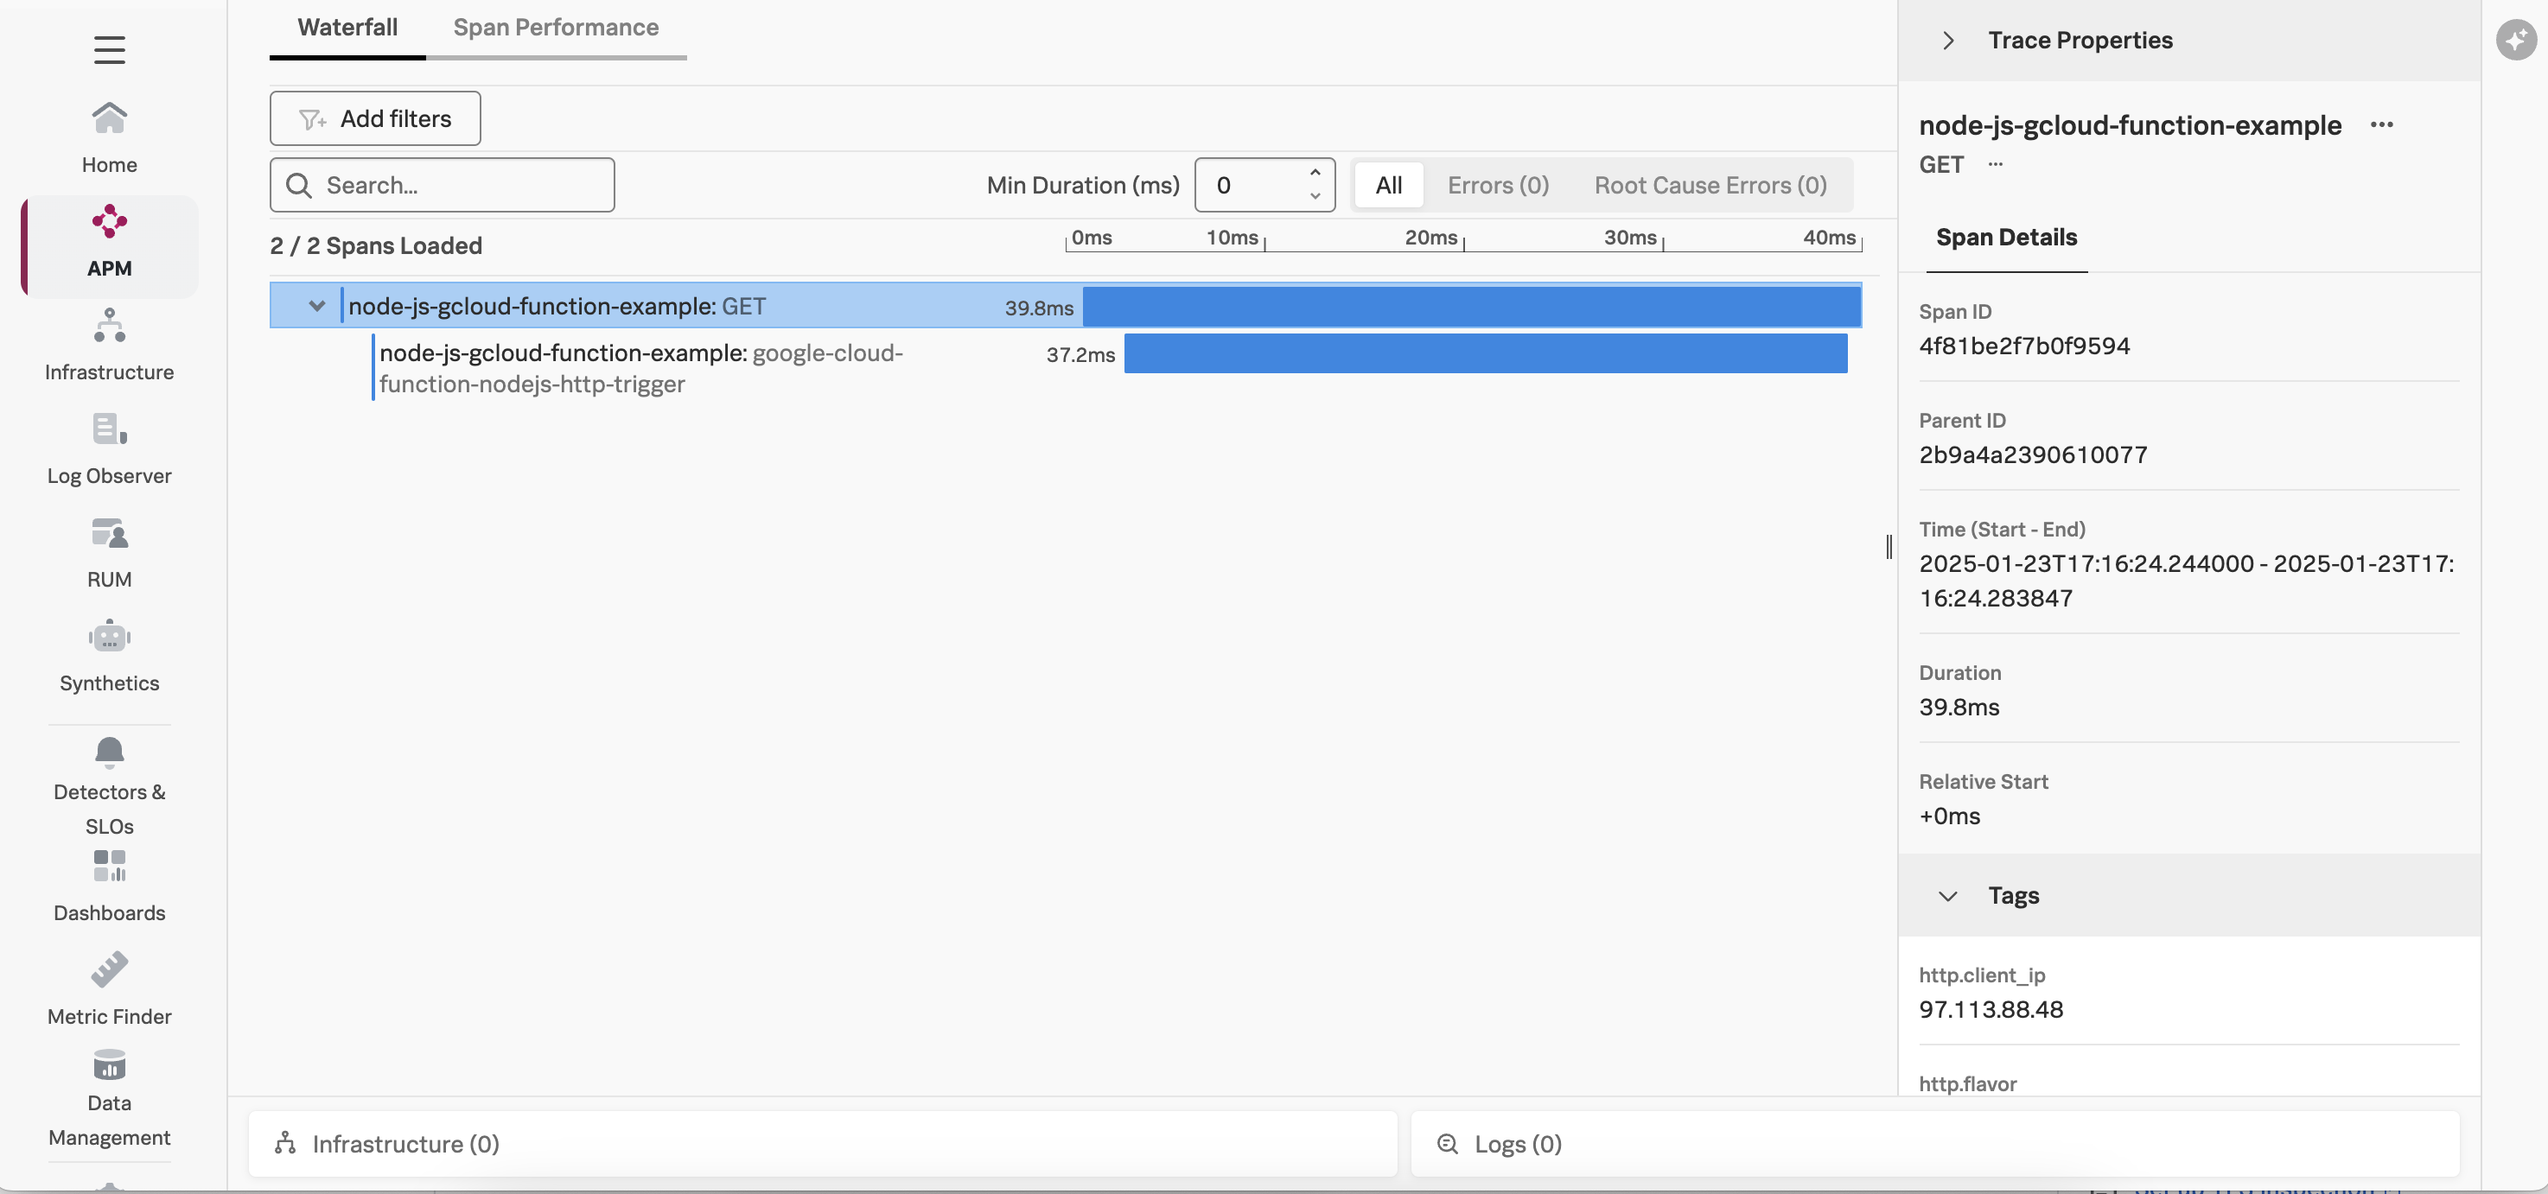
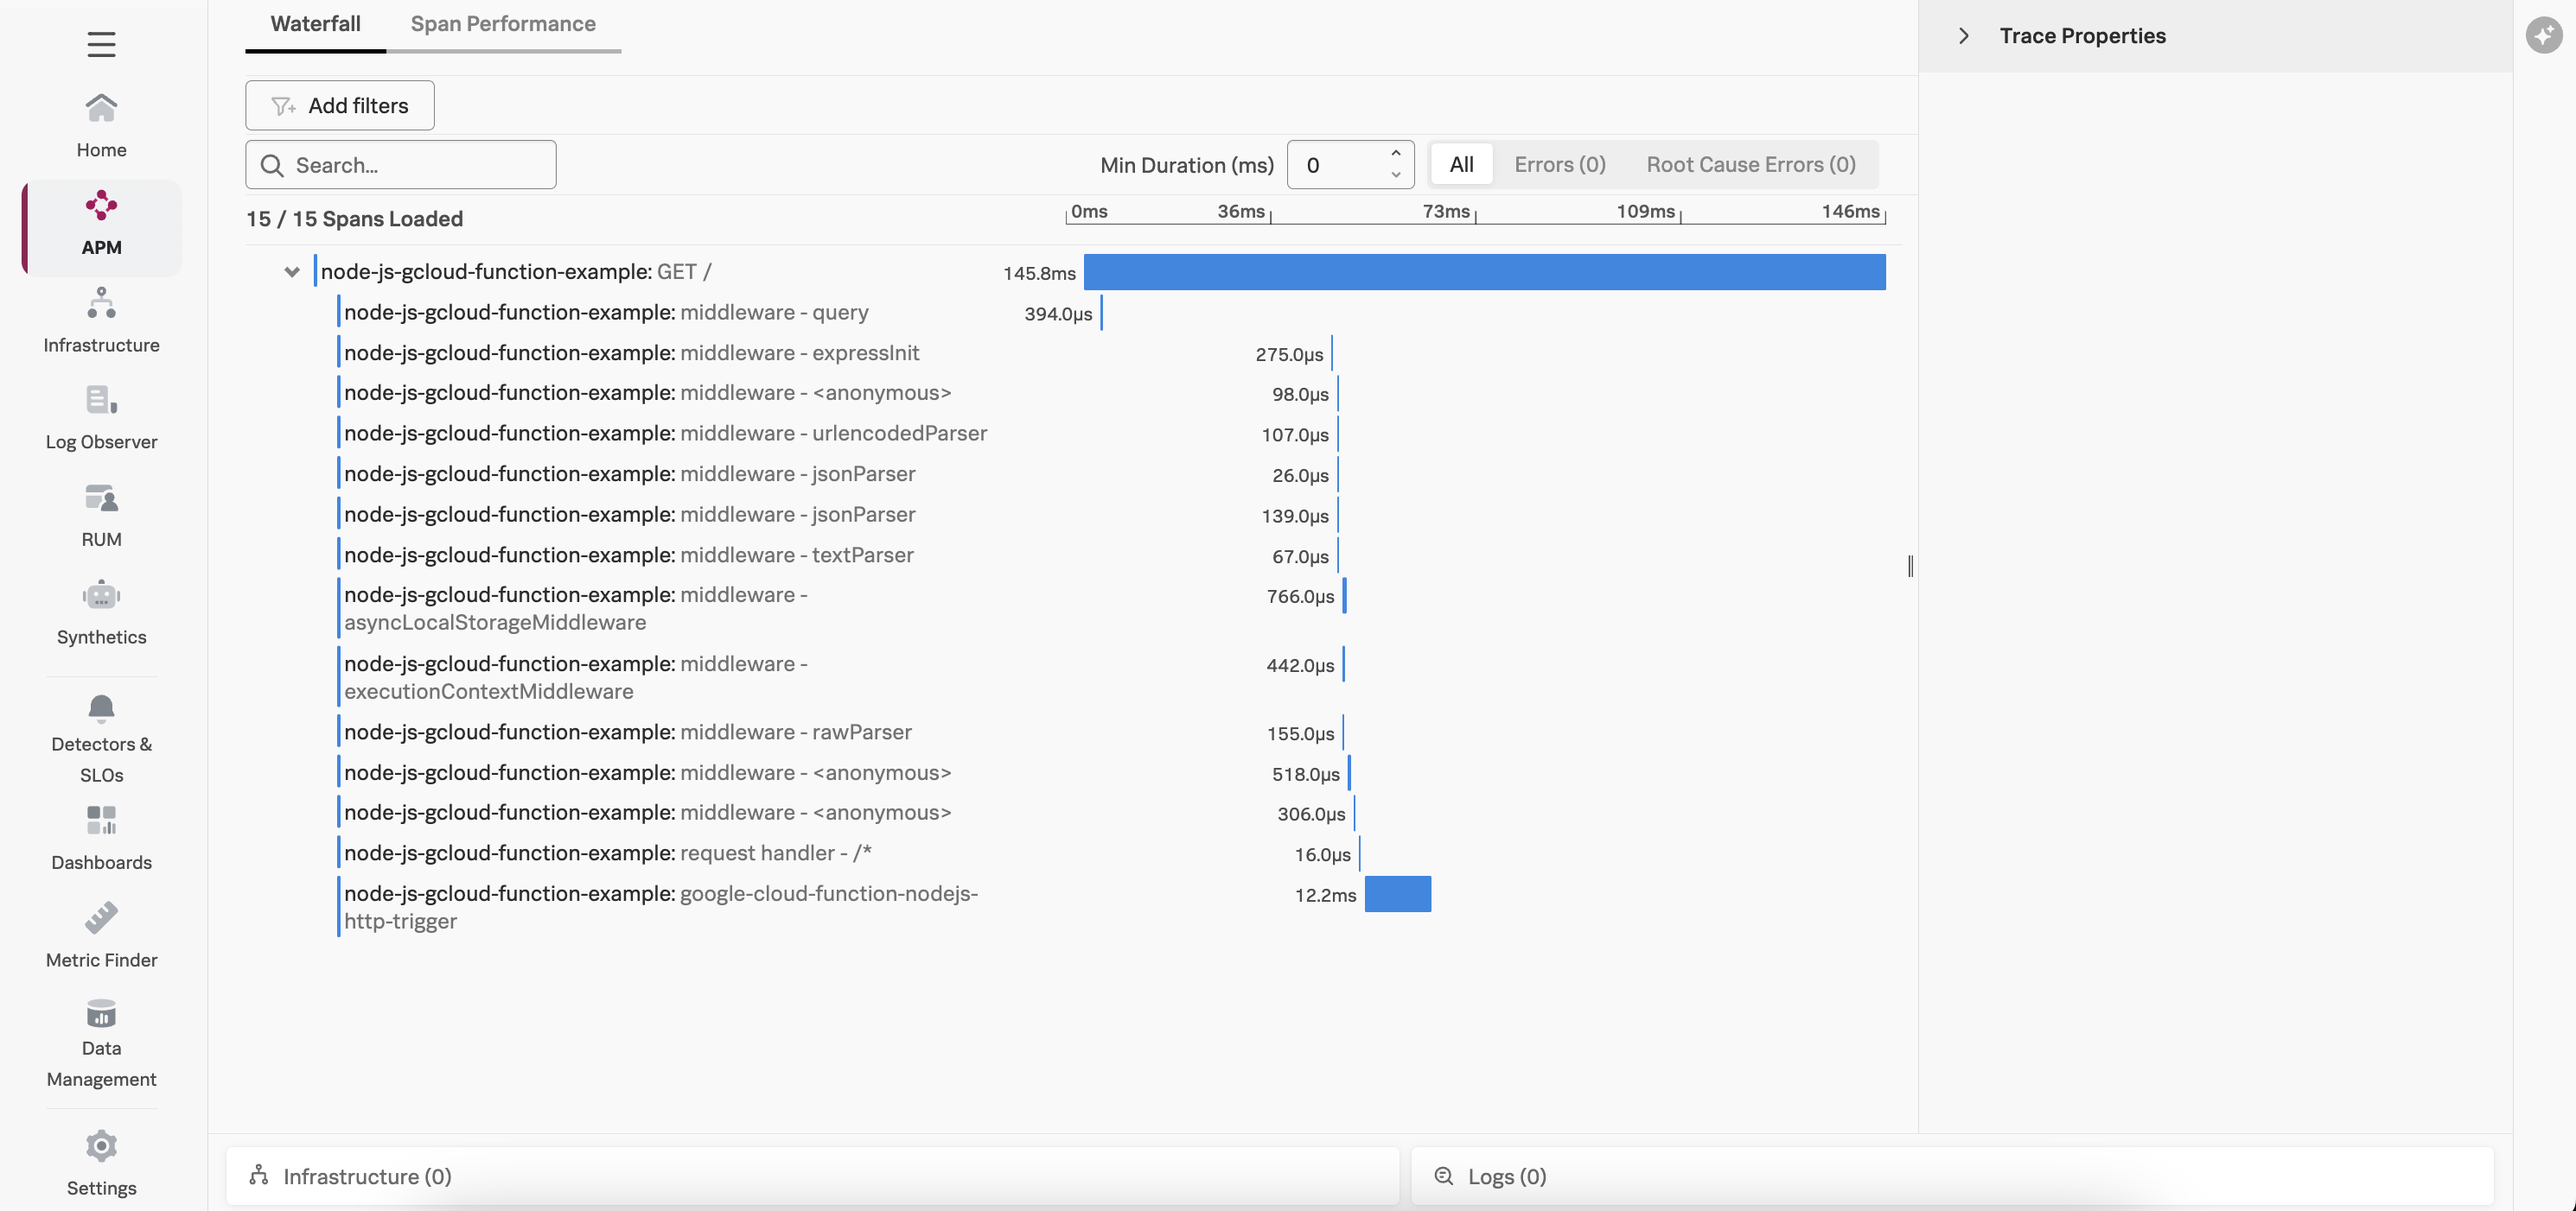
published a node.js google cloud function example

diff --git a/instrumentation/nodejs/google-cloud-functions/src/index.js b/instrumentation/nodejs/google-cloud-functions/src/index.js
@@ -1,25 +1,6 @@
-const { NodeSDK } = require('@opentelemetry/sdk-node');
-const { getNodeAutoInstrumentations } = require('@opentelemetry/auto-instrumentations-node');
-const { OTLPTraceExporter } = require('@opentelemetry/exporter-trace-otlp-http');
-const { OTLPMetricExporter } = require('@opentelemetry/exporter-metrics-otlp-http');
-const { PeriodicExportingMetricReader } = require('@opentelemetry/sdk-metrics');
-const { BatchLogRecordProcessor } = require('@opentelemetry/sdk-logs');
-const { OTLPLogExporter } = require ('@opentelemetry/exporter-logs-otlp-http');
 const functions = require('@google-cloud/functions-framework');
 const logger = require('pino')()
 const opentelemetry = require('@opentelemetry/api');
-
-const sdk = new NodeSDK({
-    traceExporter: new OTLPTraceExporter(),
-    metricReader: new PeriodicExportingMetricReader({
-        exporter: new OTLPMetricExporter(),
-    }),
-    logRecordProcessor: new BatchLogRecordProcessor(
-        new OTLPLogExporter()
-    ),
-    instrumentations: [getNodeAutoInstrumentations()],
-});
-sdk.start();
 
 const tracer = opentelemetry.trace.getTracer('google-cloud-function-nodejs-opentelemetry-example', '0.1.0');
 

diff --git a/README.md b/README.md
@@ -15,17 +15,17 @@ This category includes examples that demonstrate how to instrument applications
 with OpenTelemetry that use combinations of the following languages and target
 deployment environments: 
 
-| Language / Environment | Java                                             | .NET                                                                  | Node.js                                          | Python                                           | Go                                          |
-|------------------------|--------------------------------------------------|-----------------------------------------------------------------------|--------------------------------------------------|--------------------------------------------------|---------------------------------------------|
-| Linux                  | [Link](./instrumentation/java/linux)             | [Link](./instrumentation/dotnet/linux)                                | [Link](./instrumentation/nodejs/linux)           | [Link](./instrumentation/python/linux)           | [Link](./instrumentation/go/linux)          |
-| Windows                |                                                  |                                                                       |                                                  |                                                  |                                             |
-| Kubernetes             | [Link](./instrumentation/java/k8s)               | [Link](./instrumentation/dotnet/k8s)                                  | [Link](./instrumentation/nodejs/k8s)             | [Link](./instrumentation/python/k8s)             | [Link](./instrumentation/go/k8s)            |
-| AWS ECS Fargate        | [Link](./instrumentation/java/aws-ecs)           | [Link](./instrumentation/dotnet/aws-ecs)                              | [Link](./instrumentation/nodejs/aws-ecs)         | [Link](./instrumentation/python/aws-ecs)         | [Link](./instrumentation/go/aws-ecs)        |
-| AWS EKS Fargate        | [Link](./instrumentation/java/aws-eks-fargate)   |                                                                       |                                                  |                                                  |                                             |
-| AWS Lambda Function    | [Link](./instrumentation/java/aws-lambda)        | [Link](./instrumentation/dotnet/aws-lambda) <br> [Custom Layer](./instrumentation/dotnet/aws-lambda-with-custom-layer)                     | [Link](./instrumentation/nodejs/aws-lambda)      | [Link](./instrumentation/python/aws-lambda)      | [Link](./instrumentation/go/aws-lambda)     |
-| Azure Function         | [Link](./instrumentation/java/azure-functions)   | [Link](./instrumentation/dotnet/azure-functions)                      | [Link](./instrumentation/nodejs/azure-functions) | [Link](./instrumentation/python/azure-functions) | [Link](./instrumentation/go/azure-functions) |
-| Azure App Service      | [Link](./instrumentation/java/azure-app-service) |          |  |  |  |
-| Google Cloud Function  |                                                  |                                                                       |                                                  |                                                  |                                             |
+| Language / Environment | Java                                             | .NET                                                                  | Node.js                                                 | Python                                           | Go                                          |
+|------------------------|--------------------------------------------------|-----------------------------------------------------------------------|---------------------------------------------------------|--------------------------------------------------|---------------------------------------------|
+| Linux                  | [Link](./instrumentation/java/linux)             | [Link](./instrumentation/dotnet/linux)                                | [Link](./instrumentation/nodejs/linux)                  | [Link](./instrumentation/python/linux)           | [Link](./instrumentation/go/linux)          |
+| Windows                |                                                  |                                                                       |                                                         |                                                  |                                             |
+| Kubernetes             | [Link](./instrumentation/java/k8s)               | [Link](./instrumentation/dotnet/k8s)                                  | [Link](./instrumentation/nodejs/k8s)                    | [Link](./instrumentation/python/k8s)             | [Link](./instrumentation/go/k8s)            |
+| AWS ECS Fargate        | [Link](./instrumentation/java/aws-ecs)           | [Link](./instrumentation/dotnet/aws-ecs)                              | [Link](./instrumentation/nodejs/aws-ecs)                | [Link](./instrumentation/python/aws-ecs)         | [Link](./instrumentation/go/aws-ecs)        |
+| AWS EKS Fargate        | [Link](./instrumentation/java/aws-eks-fargate)   |                                                                       |                                                         |                                                  |                                             |
+| AWS Lambda Function    | [Link](./instrumentation/java/aws-lambda)        | [Link](./instrumentation/dotnet/aws-lambda) <br> [Custom Layer](./instrumentation/dotnet/aws-lambda-with-custom-layer)                     | [Link](./instrumentation/nodejs/aws-lambda)             | [Link](./instrumentation/python/aws-lambda)      | [Link](./instrumentation/go/aws-lambda)     |
+| Azure Function         | [Link](./instrumentation/java/azure-functions)   | [Link](./instrumentation/dotnet/azure-functions)                      | [Link](./instrumentation/nodejs/azure-functions)        | [Link](./instrumentation/python/azure-functions) | [Link](./instrumentation/go/azure-functions) |
+| Azure App Service      | [Link](./instrumentation/java/azure-app-service) |          |                                                         |  |  |
+| Google Cloud Function  |                                                  |                                                                       | [Link](./instrumentation/nodejs/google-cloud-functions) |                                                  |                                             |
 
 Examples for each combination will be added over time. 
 

diff --git a/instrumentation/nodejs/google-cloud-functions/README.md b/instrumentation/nodejs/google-cloud-functions/README.md
@@ -30,39 +30,15 @@ If you just want to build and deploy the example, feel free to skip this section
 
 The application used for this example is a simple Hello World application.
 
-We updated the [index.js](./src/index.js) file to include code that starts the OpenTelemetry 
-instrumentation for traces, metrics, and logs: 
-
-````
-const sdk = new NodeSDK({
-    traceExporter: new OTLPTraceExporter(),
-    metricReader: new PeriodicExportingMetricReader({
-        exporter: new OTLPMetricExporter(),
-    }),
-    logRecordProcessor: new BatchLogRecordProcessor(
-        new OTLPLogExporter()
-    ),
-    instrumentations: [getNodeAutoInstrumentations()],
-});
-sdk.start();
-````
-
-These code changes required several OpenTelemetry-related packages to be installed with npm, which we can see
+We added the `@splunk/otel` package with `npm`, which we can see
 in the [package.json](./package.json) file:
 
 ````
 {
   "dependencies": {
-    ...
-    "@opentelemetry/api": "^1.9.0",
-    "@opentelemetry/sdk-node": "^0.56.0",
-    "@opentelemetry/sdk-metrics": "^1.29.0",
-    "@opentelemetry/sdk-logs": "^0.56.0",
-    "@opentelemetry/exporter-trace-otlp-http": "^0.56.0",
-    "@opentelemetry/exporter-metrics-otlp-http": "^0.56.0",
-    "@opentelemetry/exporter-logs-otlp-http": "^0.56.0",
-    "@opentelemetry/auto-instrumentations-node": "^0.54.0",
-    ...
+    "@google-cloud/functions-framework": "^3.0.0",
+    "@splunk/otel": "^3.0.0",
+    "pino": "^9.5.0"
   }
 }
 ````
@@ -85,8 +61,8 @@ and [initialize](https://cloud.google.com/sdk/docs/initializing) the gcloud CLI.
 Use the following command to deploy the Google Cloud Run function, substituting the 
 [region](https://cloud.google.com/functions/docs/locations) 
 that's best for you.  To allow OpenTelemetry to send trace data to Splunk Observability Cloud,
-we also need to set the `OTEL_EXPORTER_OTLP_ENDPOINT`, `OTEL_SERVICE_NAME`,
-and `OTEL_RESOURCE_ATTRIBUTES` environment variables as part of the gcloud deploy command: 
+we also need to set the `OTEL_EXPORTER_OTLP_ENDPOINT`, `OTEL_SERVICE_NAME`, `OTEL_RESOURCE_ATTRIBUTES`,
+and `NODE_OPTIONS` environment variables as part of the gcloud deploy command: 
 
 ```bash
 gcloud functions deploy node-js-gcloud-function-example \
@@ -96,7 +72,7 @@ gcloud functions deploy node-js-gcloud-function-example \
     --source=./src \
     --entry-point=helloHttp \
     --trigger-http \
-    --set-env-vars OTEL_SERVICE_NAME=node-js-gcloud-function-example,OTEL_EXPORTER_OTLP_ENDPOINT=http://<Collector IP>:4318,OTEL_RESOURCE_ATTRIBUTES=deployment.environment=test
+    --set-env-vars OTEL_SERVICE_NAME=node-js-gcloud-function-example,OTEL_EXPORTER_OTLP_ENDPOINT=http://<Collector IP>:4318,OTEL_RESOURCE_ATTRIBUTES=deployment.environment=test,NODE_OPTIONS='--require @splunk/otel/instrument'
 ```
 
 Answer "y" to the following question when asked: 
@@ -126,8 +102,6 @@ appearing in Splunk Observability Cloud:
 
 ![Trace](./images/trace.png)
 
-Note that the bottom-right of the trace includes a button that links to the related log entries.
-
 ### Add Trace Context to Logs
 
 Logs generated by a Google Cloud Run function get sent to Google Cloud Logging.
@@ -138,13 +112,22 @@ as described in
 Once the logs are in Splunk platform, they can be made available to
 Splunk Observability Cloud using Log Observer Connect.
 
-In this example, OpenTelemetry JavaScript also exports logs
-to our collector using OTLP.
+Here's an example log entry, which includes the trace_id and span_id:
 
-By following the link from the trace show above, we can see all of the log entries associated
-with this trace:
+````
+{
+    hostname: localhost, 
+    level: 30, 
+    msg: helloHttp handler was invoked, 
+    pid: 1, 
+    service.environment: test, 
+    service.name: node-js-gcloud-function-example, 
+    span_id: c3fd896135dfedf5, 
+    time: 1741039055180, 
+    trace_flags: 01, 
+    trace_id: f3adbec68648bcc4172e9b7098887959
+}
+````
 
-![Related Logs](./images/related-logs.png)
-
-We can see that the log entries include a trace_id and span_id, which allows us to correlate
+We can see that the log entry includes a trace_id and span_id, which allows us to correlate
 logs with traces. 
